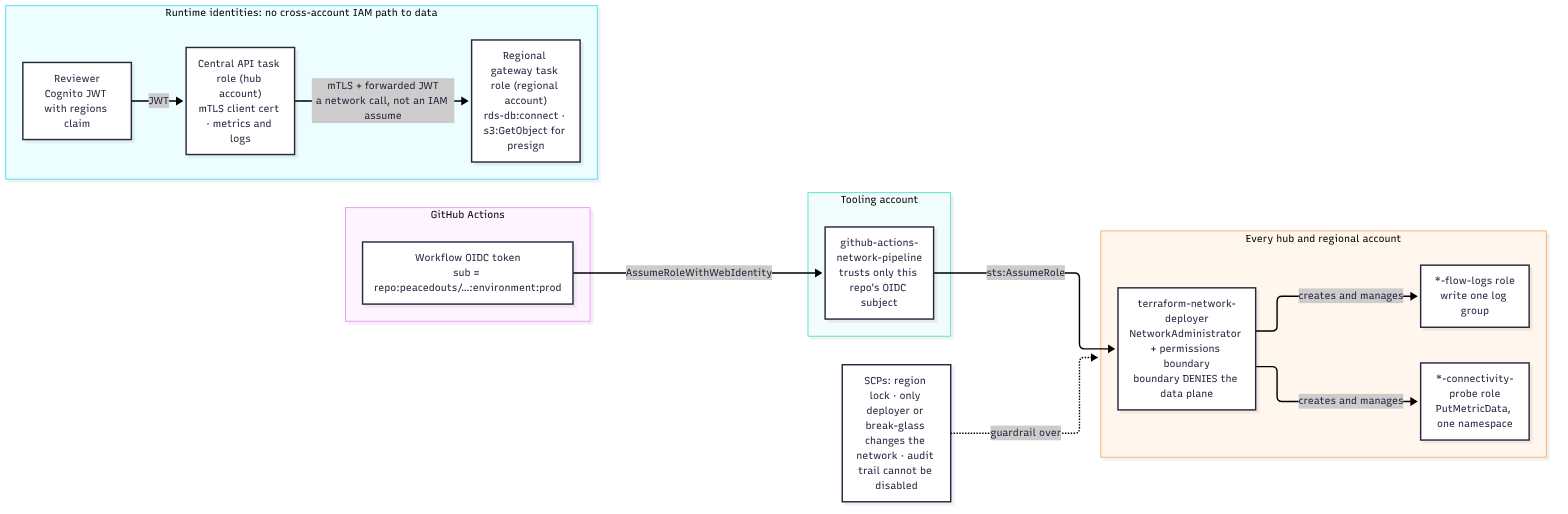
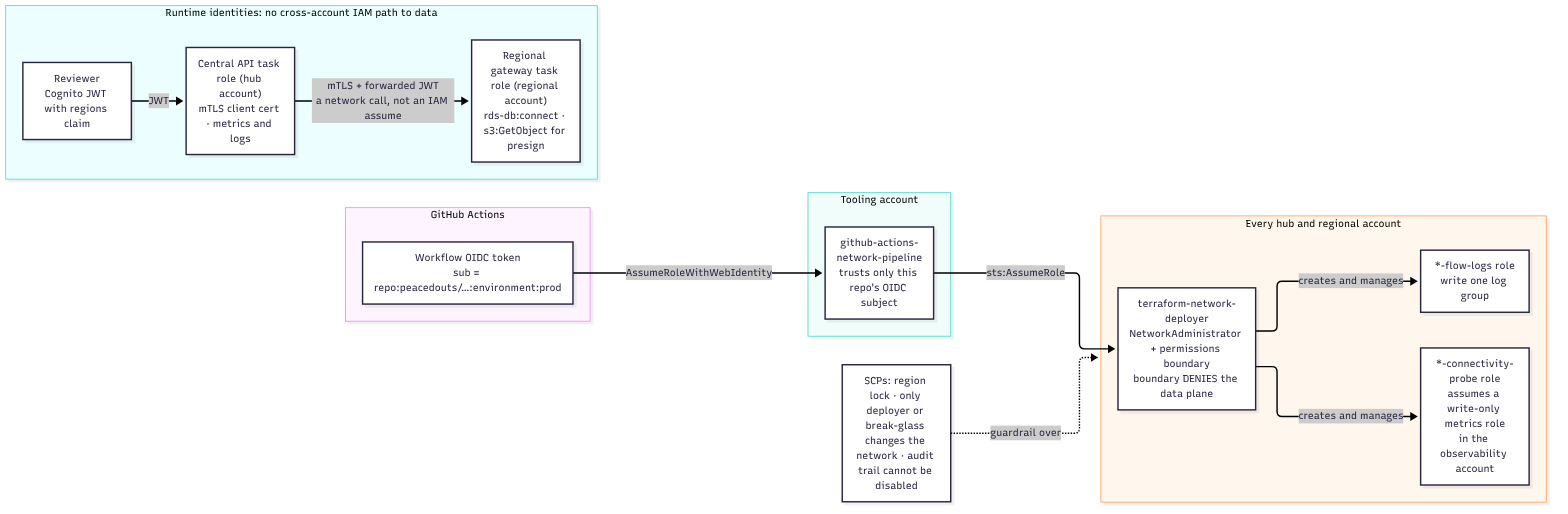
Rename network monitoring to 'monitoring'; clarity fixes; trim README
- 'observability' now only means the product reviewers use; the network
  monitoring stack, account and docs are 'monitoring' (stack folder,
  plan key, state keys, CI matrix, Makefile, docs, diagrams)
- Design doc: who owns the regional gateway; glossary of terms and acronyms
- README: hub naming, gateway ownership, fold 'read this first' into the
  scope section, tighter built-vs-designed section

Changed region(s): [[0.7188, 0.4047, 1.0, 0.9961]]

diff --git a/modules/connectivity_probe/src/probe.py b/modules/connectivity_probe/src/probe.py
@@ -9,7 +9,7 @@ Every PROBE_INTERVAL seconds for ~one invocation window it measures, per target:
     DNS resolution, TCP connect, TLS handshake, time-to-first-byte, success.
 
 Metrics are high-resolution (1s storage) and are DUAL-WRITTEN to every region
-in METRIC_REGIONS, in the observability account (via METRIC_ROLE_ARN). Every
+in METRIC_REGIONS, in the monitoring account (via METRIC_ROLE_ARN). Every
 hub's probe lands in the same account, so each region holds the full
 hub x region matrix and evaluates the correlation alarms on its own: alerting
 has no single-region dependency.
@@ -32,13 +32,13 @@ INTERVAL = int(os.environ.get("PROBE_INTERVAL_SECONDS", "10"))
 WINDOW = int(os.environ.get("PROBE_WINDOW_SECONDS", "50"))
 TIMEOUT = float(os.environ.get("PROBE_TIMEOUT_SECONDS", "3"))
 MTLS_SECRET_ARN = os.environ.get("MTLS_SECRET_ARN", "")
-METRIC_ROLE_ARN = os.environ.get("METRIC_ROLE_ARN", "")  # write-only role in the observability account
+METRIC_ROLE_ARN = os.environ.get("METRIC_ROLE_ARN", "")  # write-only role in the monitoring account
 
 _ssl_ctx = None
 
 
 def _metric_clients():
-    """CloudWatch clients for every metrics region, in the observability account when a role is set.
+    """CloudWatch clients for every metrics region, in the monitoring account when a role is set.
     Called once per invocation so the assumed-role credentials never go stale."""
     creds = {}
     if METRIC_ROLE_ARN:

diff --git a/docs/architecture.md b/docs/architecture.md
@@ -88,7 +88,7 @@ flowchart TB
     api2 -. peering .-> gwca
     api2 -. peering .-> gwap
 
-    subgraph OBS["Observability account"]
+    subgraph OBS["Monitoring account"]
         cw["CloudWatch cross-account observability (OAM)<br/>Managed Grafana · alarms in BOTH hub regions"]
     end
     CENTRAL -. "metrics / logs (no PII)" .-> OBS
@@ -105,7 +105,7 @@ There are no spoke-to-spoke connections, and peering is not transitive. EU traff
 | OU | Accounts | Notes |
 |---|---|---|
 | Security | log-archive, audit | Org CloudTrail (S3 Object Lock), Config aggregator, GuardDuty/Security Hub delegated admin |
-| Infrastructure | hub-use1, hub-euw1 (one account each), observability, tooling (CI/OIDC, state) | Hubs hold no event data. Separate hub accounts mean an IAM mistake, a leaked credential or an exhausted service quota can only affect one hub. |
+| Infrastructure | hub-use1, hub-euw1 (one account each), monitoring, tooling (CI/OIDC, state) | Hubs hold no event data. Separate hub accounts mean an IAM mistake, a leaked credential or an exhausted service quota can only affect one hub. |
 | Regional Workloads | us-prod, eu-prod, ca-prod, apac-prod (+ non-prod twins) | Region-lock SCP per account, residency guardrail SCPs |
 
 Every account boundary is also a blast-radius and audit boundary. An auditor for the EU can be given read access to the EU account alone and see every access to EU data in it.
@@ -256,7 +256,7 @@ flowchart LR
     subgraph EACH["Every hub and regional account"]
         dep["terraform-network-deployer<br/>NetworkAdministrator + permissions boundary<br/>boundary DENIES the data plane"]
         fl["*-flow-logs role<br/>write one log group"]
-        pr["*-connectivity-probe role<br/>assumes a write-only metrics role<br/>in the observability account"]
+        pr["*-connectivity-probe role<br/>assumes a write-only metrics role<br/>in the monitoring account"]
     end
     oidc -- "AssumeRoleWithWebIdentity" --> pipe
     pipe -- "sts:AssumeRole" --> dep
@@ -281,7 +281,7 @@ flowchart LR
 | Central API task role | Each hub account | Read its mTLS client cert, write metrics/logs | Assume any role in regional accounts. It holds **no** cross-account IAM to data. |
 | Regional gateway task role | Each regional account | `rds-db:connect` (IAM DB auth: reader user and a narrowly-scoped writer user for ratings), `s3:GetObject` on the event bucket (for presigning), write the access-audit log | Anything outside its region (SCP) |
 | `terraform-network-deployer` | Every account | Network + monitoring plumbing, assumed only by the CI pipeline role, which itself trusts only this repository's GitHub OIDC subject | Data plane: denied `rds:*`, `rds-db:connect`, `secretsmanager:GetSecretValue`, `kms:Decrypt` and event-bucket objects by permissions boundary |
-| Flow-log role, probe role | Per VPC / hub | Write logs; the probe assumes a role in the observability account that can only publish metrics to one namespace | Anything else |
+| Flow-log role, probe role | Per VPC / hub | Write logs; the probe assumes a role in the monitoring account that can only publish metrics to one namespace | Anything else |
 | Break-glass network admin | Every account, MFA + approval | Emergency network change | Silently: every action raises an out-of-band-change alert |
 
 The trust model deliberately has **no cross-account IAM path from the center to regional data**. The hub reaches a region only through the gateway, as a certificate-authenticated client acting for a named human. The gateway owns its region's data-access credentials.
@@ -341,6 +341,8 @@ The **interconnect tier is the contract**, not the peering. A spoke can move to 
 ### 9.2 Regional gateway instead of direct database access
 
 Giving the central API read access straight to each Aurora cluster would look simpler, but it would spread four regions' credentials, schemas and authorization logic into the center. Writes would also become a convention ("please use the right endpoint") rather than a property of the system. The gateway keeps those things in the region. It enforces field-level filtering, records the audit, chooses reader or writer, issues presigned URLs, and exposes a small coarse-grained API suited to high-latency links.
+
+**Who owns it:** the gateway is new; it isn't part of the existing regional stacks. It's one codebase, owned by the central platform team and deployed into each regional account by the same pipeline, with per-region configuration generated from `network-plan.yaml`. The regional teams don't build or run it, but it runs inside their account, so its access to their database is visible to them and audited there.
 
 ### 9.3 Why two hubs, and why these regions
 
@@ -418,3 +420,28 @@ Inter-region RTTs range from tens of milliseconds (US↔CA) to roughly 200+ ms (
 | Probe-based detection has blind spots | Combine with real-traffic RED metrics and a negative reachability test after every apply (see monitoring doc) |
 
 **Implemented in this repo vs designed only.** Implemented: VPC module (tiers, per-tier routing, NAT, endpoints, NACL, flow logs), cross-account cross-region peering module, SG modules, connectivity probe, correlated alerting, change guardrails, deployer IAM role with boundary, SCPs, the CIDR-overlap check and its tests, live stacks for 2 hubs, 4 spokes and the full peering mesh. Designed only: central API and regional gateway services, GA/ALB/WAF, the per-hub Cognito pools, Private CA, private hosted zones, OAM wiring, Grafana dashboards.
+
+---
+
+## 14. Glossary
+
+| Term | Meaning here |
+|---|---|
+| **Hub** | One of the two central API deployments (`hub-use1` in us-east-1, `hub-euw1` in eu-west-1). Stores no event data. |
+| **Spoke** | A regional stack (US, EU, CA, APAC) where the event data lives and must stay. |
+| **Interconnect tier** | The one subnet tier in each spoke that hubs can route to. It holds only the regional gateway's load balancer. |
+| **Regional gateway** | The small service in each region that the hubs call. The only thing that touches that region's database. |
+| **Monitoring account** | The AWS account holding the network monitoring: probe metrics, the alarm matrix and dashboards. Not to be confused with the observability *platform*, which is the product reviewers use. |
+| **ADR** | Architecture decision record: a short document recording one decision and why (`docs/adr/`). |
+| **DPO** | Data protection officer: the person accountable for data-protection compliance in a jurisdiction. |
+| **GA** | AWS Global Accelerator: static anycast IPs in front of both hubs. |
+| **IPAM** | AWS VPC IP Address Manager: allocates IP ranges centrally so they never overlap. |
+| **mTLS** | Mutual TLS: both sides present certificates, so the gateway knows the caller is a hub. |
+| **NACL** | Network ACL: a stateless subnet-level firewall, used here as a backstop behind security groups. |
+| **OAM** | CloudWatch cross-account observability: lets one account view other accounts' metrics and logs. |
+| **PII** | Personally identifiable information. |
+| **RED** | Rate, errors, duration: the three core metrics for any request-serving service. |
+| **RTT** | Round-trip time between two regions. |
+| **SCP** | Service control policy: an AWS Organizations rule that limits what any role in an account can do, even an admin. |
+| **SLO** | Service level objective: the availability or latency target a service is measured against. |
+| **TTFB** | Time to first byte: how long until a response starts arriving. |

diff --git a/README.md b/README.md
@@ -2,19 +2,17 @@
 
 This is the network layer for a central platform where internal teams review and rate events from edge devices. The catch is that the event data lives in separate regional AWS stacks (US, EU, CA and APAC) and has to stay there for data-residency reasons. So the question is how to give one central API access to all of it without moving any of it.
 
-If you only read one thing, read the [design doc](docs/architecture.md). The [monitoring doc](docs/monitoring.md) covers metrics and alerting, [deployment.md](docs/deployment.md) covers how the Terraform is organized and rolled out, and the [ADRs](docs/adr) record the main decisions.
-
 ## Scope and how to review this
 
 The brief asked for a network design, a basic Terraform module structure, VPC creation and peering code, and a monitoring approach. That core is here:
 
-- **[The design doc](docs/architecture.md)**, with the diagrams and the reasoning behind each decision
+- **[The design doc](docs/architecture.md)**, with the diagrams and the reasoning behind each decision. Start here. A glossary of terms and acronyms is at the end.
 - **[The monitoring doc](docs/monitoring.md)**, covering which metrics matter and how alerting works
 - **`modules/vpc`**, which builds each VPC with its subnet tiers and route tables
 - **`modules/vpc_peering`**, which connects two VPCs across accounts and regions, with routes on both sides
 - **`live/prod/connectivity`**, which uses that module to wire up all 9 peering connections
 
-Everything else is supporting work that shows how this would run in production, and it's safe to skim: the probe and alerting modules that implement the monitoring doc, the security groups, the SCPs and change guardrails, the deployer IAM role, the CI pipeline, the tests and the ADRs.
+Everything else is supporting work that shows how this would run in production, and it's safe to skim: the probe and alerting modules that implement the monitoring doc, the security groups, the SCPs and change guardrails, the deployer IAM role, the CI pipeline, the tests, [deployment.md](docs/deployment.md) and the [ADRs](docs/adr).
 
 ## How it works
 
@@ -32,14 +30,14 @@ flowchart LR
     AP --> APD[("APAC data")]
 ```
 
-Two central "hubs" run the API, one in `us-east-1` and one in `eu-west-1`, behind Global Accelerator. Each hub is peered with every regional VPC, and the two hubs are peered with each other as a fallback path.
+Two central "hubs" run the API, one in `us-east-1` and one in `eu-west-1`, behind Global Accelerator. They're named after their regions: `hub-use1` and `hub-euw1`. Each hub is peered with every regional VPC, and the two hubs are peered with each other as a fallback path.
 
 **Hubs and regions are separate layers.** The four regional stacks (US, EU, CA and APAC) are where the data lives, one per jurisdiction. The two hubs are where the central API runs, and they store no data, so their number isn't tied to the number of regions. There are two purely for redundancy, because no single hub can reach six nines. Each hub connects to all four regions, which is why this is "dual hub-and-spoke": 8 hub-to-region connections plus one between the hubs. The locations are deliberate: `us-east-1` sits close to both the US and Canadian stacks, and `eu-west-1` lets EU reviewers work on EU data without it leaving the EU. Adding a region adds a spoke, not a hub.
 
 A few decisions shape everything else:
 
 - **The regions can't talk to each other.** VPC peering isn't transitive, so even with a bad route, EU traffic can't reach the US VPC through a hub.
-- **The hubs never touch a database.** They can only reach a small gateway service in each region. The database subnets don't even have a route back to the hubs, and a network ACL blocks them as well.
+- **The hubs never touch a database.** They can only reach a small gateway service in each region. It's one codebase that the platform team deploys into each regional account, so the regional teams don't have to build it. The database subnets don't even have a route back to the hubs, and a network ACL blocks them as well.
 - **Nothing is stored centrally.** Video clips go from the regional S3 bucket straight to the reviewer through a short-lived presigned URL.
 - **Residency is enforced by AWS, not by convention.** SCPs lock each account to its own regions and block cross-region replication, and every data access is audited inside its own region.
 - **Six nines is split in two.** The platform targets 99.9999% by running both hubs at once and retrying on the other hub when one fails. Each region's data gets its own 99.99% target, because EU data can't be more available than the EU infrastructure it's required to live on. [ADR-0003](docs/adr/0003-six-nines-scope.md) explains the reasoning.
@@ -81,7 +79,7 @@ live/
     spoke/                 -var spoke=us|eu|ca|apac
     hub/                   -var hub=use1|euw1
     connectivity/          all 9 peering connections
-    observability/         -var hub=use1|euw1
+    monitoring/            -var hub=use1|euw1
 policies/scp/              region lock, residency guardrails, protection against network changes
 docs/                      design doc, monitoring, deployment, ADRs
 ```
@@ -137,9 +135,9 @@ The full list is in section 2 of the design doc. The ones that matter most:
 
 ## What's built and what's only designed
 
-**Built:** the networking modules and live stacks for 2 hubs, 4 regions and all the peering between them, plus security groups, network ACLs, flow logs, the probe, the correlated alerting, the change guardrails, the deployer IAM role and the SCPs.
+**Built and validated:** everything under `modules/` and `live/`, plus the SCPs.
 
-**Designed but not built** (described in the design doc): the central API and regional gateway services, Global Accelerator, the ALBs and WAF, the Cognito pools, Private CA and private DNS zones, and the cross-account monitoring setup and dashboards.
+**Designed only** (described in the design doc): the central API and regional gateway services, Global Accelerator, the ALBs and WAF, the Cognito pools, Private CA, private DNS zones, and the cross-account dashboards.
 
 ## Validation
 

diff --git a/docs/deployment.md b/docs/deployment.md
@@ -23,7 +23,7 @@
 │       ├── spoke/                   # one root, 4 instances: -var spoke=us|eu|ca|apac
 │       ├── hub/                     # one root, 2 instances: -var hub=use1|euw1
 │       ├── connectivity/            # all 9 peerings, one provider alias per account/region
-│       └── observability/           # per hub region: probe (hub account) + full alarm matrix (observability account)
+│       └── monitoring/              # per hub region: probe (hub account) + full alarm matrix (monitoring account)
 ├── policies/scp/                    # SCPs this design relies on (attached by the org pipeline)
 └── docs/
 ```
@@ -36,7 +36,7 @@
   - `spoke` runs in a regional account only. It can't touch another jurisdiction (provider `allowed_account_ids` + region-lock SCP).
   - `hub` runs in one hub account only. Each hub has its own account.
   - `connectivity` spans every hub and regional account. That is intentional: both sides of a peering, and their routes, are reviewed as one diff and applied as one unit.
-  - `observability` spans two accounts: the probe runs in the hub account (inside the hub VPC, so it tests the real path), and the alarm matrix lives in the observability account. It's a separate stack so alarm tuning never risks a network change.
+  - `monitoring` spans two accounts: the probe runs in the hub account (inside the hub VPC, so it tests the real path), and the alarm matrix lives in the monitoring account. It's a separate stack so alarm tuning never risks a network change.
 - **State per instance** (`network/spoke/eu.tfstate`, …) keeps lock contention and blast radius small. State holds no event data. A residency-strict auditor could place each spoke's state in an in-jurisdiction bucket by changing its backend file only.
 - **Environments (not included in this repo):** a `live/nonprod/` tree would mirror `live/prod/` with its own `network-plan.yaml` (a different 10.x block, single NAT, one hub). Modules are promoted by git tag: `source = "git::…//modules/vpc?ref=v1.4.0"` once modules move to their own repo.
 
@@ -48,7 +48,7 @@ flowchart LR
     B --> H["1 · hub × 2<br/>(parallel)"]
     S --> C["2 · connectivity<br/>9 peerings + routes"]
     H --> C
-    C --> O["3 · observability × 2<br/>probe + alarms"]
+    C --> O["3 · monitoring × 2<br/>probe + alarms"]
     O --> V["4 · verify<br/>Reachability Analyzer<br/>+ / − tests"]
 ```
 
@@ -64,7 +64,7 @@ cd live/prod/hub   && terraform init -reconfigure -backend-config=backends/use1.
 cd live/prod/connectivity && terraform init -backend-config=backends/prod.hcl && terraform apply
 
 # 3. monitoring (both hub regions)
-cd live/prod/observability && terraform init -reconfigure -backend-config=backends/use1.hcl && terraform apply -var hub=use1
+cd live/prod/monitoring && terraform init -reconfigure -backend-config=backends/use1.hcl && terraform apply -var hub=use1
 ```
 
 A `Makefile` wraps these (`make plan STACK=spoke INSTANCE=eu`).
@@ -85,7 +85,7 @@ A `Makefile` wraps these (`make plan STACK=spoke INSTANCE=eu`).
 2. Bootstrap the deployer role in the new account and attach the region-lock SCP.
 3. `apply` `spoke` with `-var spoke=uk`.
 4. Add `provider "aws" { alias = "spoke_uk" }` and a `peering-uk.tf` (two module blocks, copy of any other spoke file) in `connectivity`.
-5. Re-apply both `hub` instances (SGs pick up the new spoke from the plan automatically) and both `observability` instances (the probe target list and alarm matrix extend automatically).
+5. Re-apply both `hub` instances (SGs pick up the new spoke from the plan automatically) and both `monitoring` instances (the probe target list and alarm matrix extend automatically).
 
 **Pin a jurisdiction to its own hub** (if Legal requires in-jurisdiction processing): remove that spoke's peering module for the out-of-jurisdiction hub, and filter that hub out of `hub_source_cidrs` in `spoke/main.tf`. One reviewed PR.
 

diff --git a/docs/monitoring.md b/docs/monitoring.md
@@ -76,7 +76,7 @@ This decomposition is the main debugging aid: an on-call engineer can tell withi
 - **Page on what users feel, not on every raw signal.** The per-path alarms don't notify anyone on their own. Only the correlated alarms built on top of them do.
 - **Every page is actionable and links a runbook** (failure domain, likely causes, first three commands).
 - **Severity follows user impact, not component importance.** A dead peering connection with the other hub serving is SEV3.
-- **Alerting is regionally redundant.** Both hubs' probes write their metrics into the observability account in *both* hub regions, through a write-only role. Each region then evaluates the full matrix. Both notify, and the incident tool de-duplicates on alarm name.
+- **Alerting is regionally redundant.** Both hubs' probes write their metrics into the monitoring account in *both* hub regions, through a write-only role. Each region then evaluates the full matrix. Both notify, and the incident tool de-duplicates on alarm name.
 
 ### 4.2 Correlation matrix
 
@@ -135,8 +135,8 @@ The probe tells us the network is broken. The SLO tells us whether users are hur
 
 ## 5. Where monitoring data lives
 
-- **Probe metrics:** written by every hub's probe into the observability account, in both hub regions. Alarms see the whole matrix even though each hub has its own account, and neither detection nor paging depends on a single region.
-- **Everything else:** CloudWatch **cross-account observability (OAM)**. Every account links to a sink in the observability account, so metrics, logs and traces from all regions appear in one console and in **Amazon Managed Grafana** without copying raw data around. Per the brief, monitoring data contains no PII. Services log event IDs, never event payloads or video URLs, enforced by a log-scrubbing test in CI.
+- **Probe metrics:** written by every hub's probe into the monitoring account, in both hub regions. Alarms see the whole matrix even though each hub has its own account, and neither detection nor paging depends on a single region.
+- **Everything else:** CloudWatch **cross-account observability (OAM)**. Every account links to a sink in the monitoring account, so metrics, logs and traces from all regions appear in one console and in **Amazon Managed Grafana** without copying raw data around. Per the brief, monitoring data contains no PII. Services log event IDs, never event payloads or video URLs, enforced by a log-scrubbing test in CI.
 - **Retention:** 90 days for flow logs in CloudWatch (hot), with long-term copies in the in-region log-archive bucket for audit.
 
 ### Dashboards
